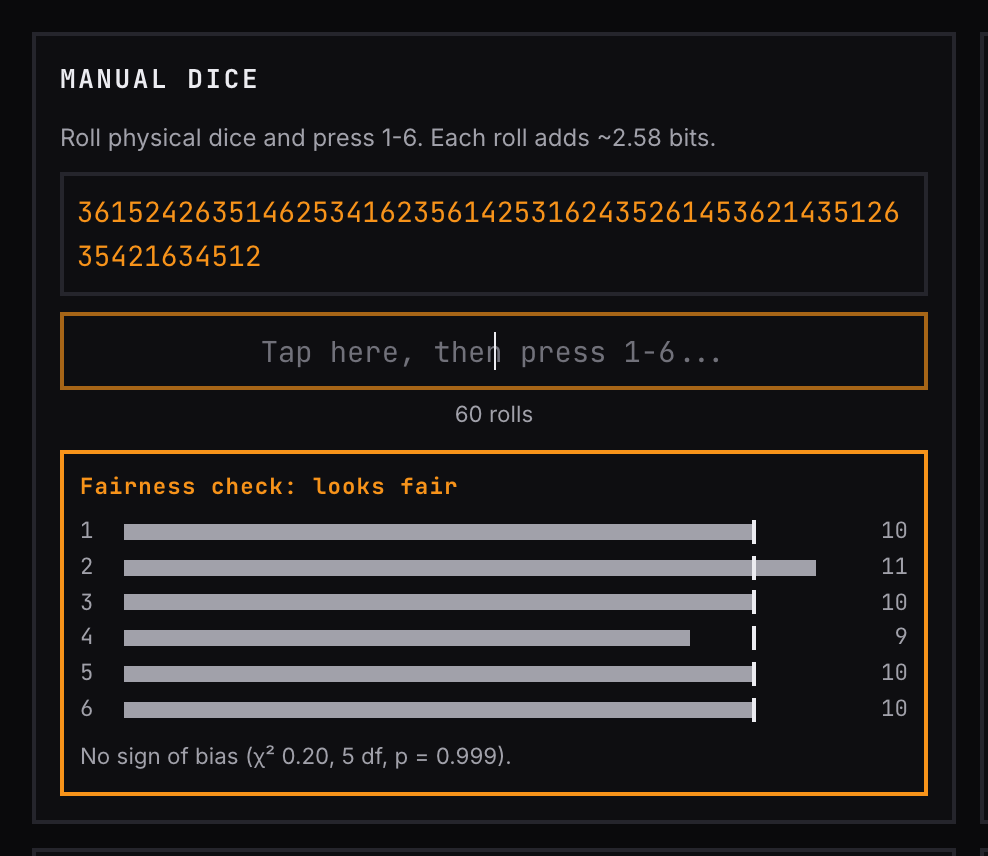
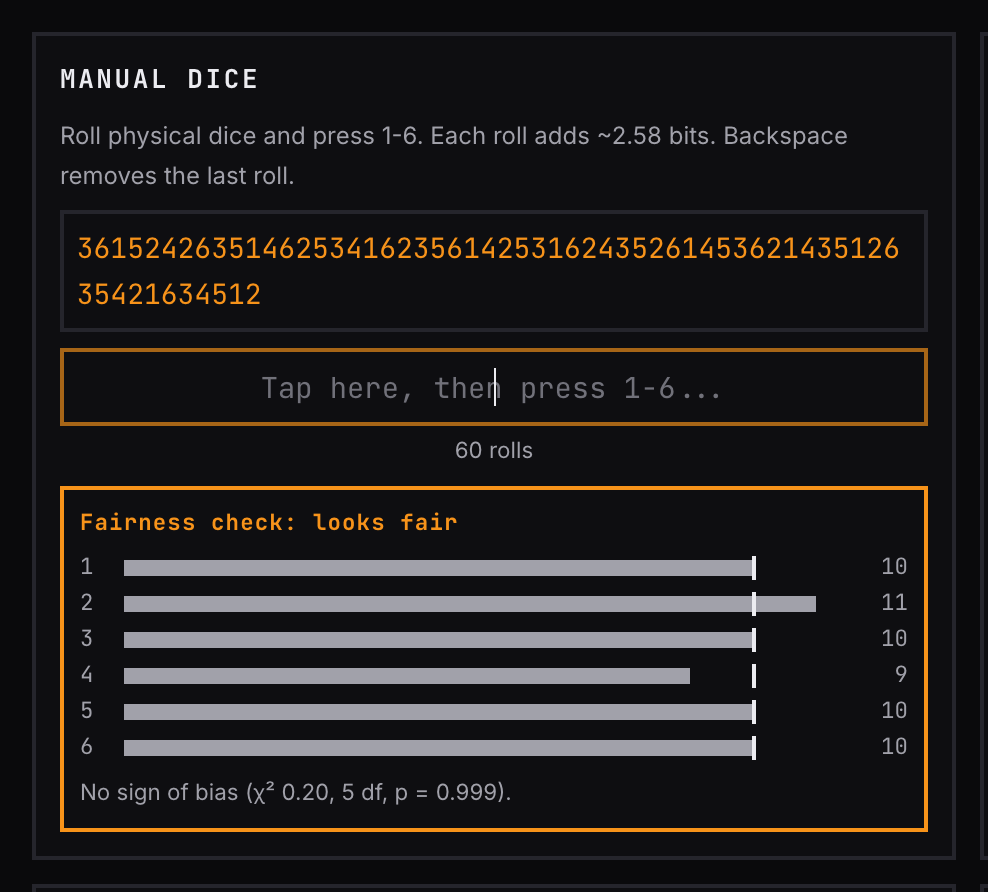
Retake screenshots for v1.37; add Verifiable Dice and Playing Cards images
Retaken from the v1.37 dev build (offline status bar, dev overlays
hidden, version label v1.37):
- Changed screens: wallet record.png (descriptor-first form with a named
  key), Entropy.png, dice-fairness.png (Backspace hint).
- Version label: dashboard.png, select signer.png, Initial boot
  screen.png, welcome-temporary.png.
New in the docs' "Generating a new seed" section: verifiable-dice.png
(50 rolls for 12 words) and playing-cards.png.

diff --git a/docs.html b/docs.html
@@ -642,6 +642,12 @@
                         entirely on your dice, so use a fair die and never let anyone see or record the rolls.
                     </li>
                 </ul>
+                <figure class="os-showcase">
+                    <a href="verifiable-dice.png" target="_blank" rel="noopener">
+                        <img class="img-elevated" src="verifiable-dice.png" alt="Verifiable Dice mode with all 50 rolls entered for a 12-word seed, instructions for checking the words on SeedSigner or COLDCARD, and the Forge Seed button">
+                    </a>
+                    <figcaption><strong>Verifiable Dice</strong> after 50 rolls for a 12-word seed. The panel explains how to enter the same rolls on SeedSigner or COLDCARD and check that the words match.</figcaption>
+                </figure>
                 <p>In Mixed mode you can combine any of these sources:</p>
                 <ul class="docs-list">
                     <li><strong>Manual dice &mdash;</strong> press 1&ndash;6 for each roll (about 2.58 bits each). Backspace undoes a typo. A fairness check warns if the die looks biased.</li>
@@ -649,6 +655,12 @@
                     <li><strong>Mouse movement &mdash;</strong> 0.5 bits per sample.</li>
                     <li><strong>Camera noise &mdash;</strong> 4 bits per frame, taken only from the sensor-noise bits, and only when they change between frames.</li>
                 </ul>
+                <figure class="os-showcase">
+                    <a href="playing-cards.png" target="_blank" rel="noopener">
+                        <img class="img-elevated" src="playing-cards.png" alt="Playing Cards entropy source with 16 of 52 cards entered from a shuffled deck" style="max-width: 560px;">
+                    </a>
+                    <figcaption>The <strong>Playing Cards</strong> source, part-way through a shuffled deck. Each card is credited by how many cards are left, so a full deck adds about 225 bits.</figcaption>
+                </figure>
                 <p>
                     The meter counts only the randomness <em>you</em> add (&ldquo;bits from you&rdquo;). The
                     device&rsquo;s random number generator is always mixed in as well, but isn&rsquo;t counted.

diff --git a/features.html b/features.html
@@ -222,7 +222,7 @@
             <!-- Wallet Record Screenshot -->
             <figure class="os-showcase">
                 <a href="wallet%20record.png" target="_blank" rel="noopener">
-                    <img src="wallet%20record.png" alt="Wallet Record — SafeKeepVault's printable wallet summary, showing descriptor, derivation path, and key fingerprint formatted as a single-page PDF">
+                    <img src="wallet%20record.png" alt="Wallet Record — the descriptor-first form: add the wallet, then name each key and note which need a passphrase">
                 </a>
                 <figcaption>
                     The Wallet Record &mdash; add your output descriptor (from the Output Descriptor
